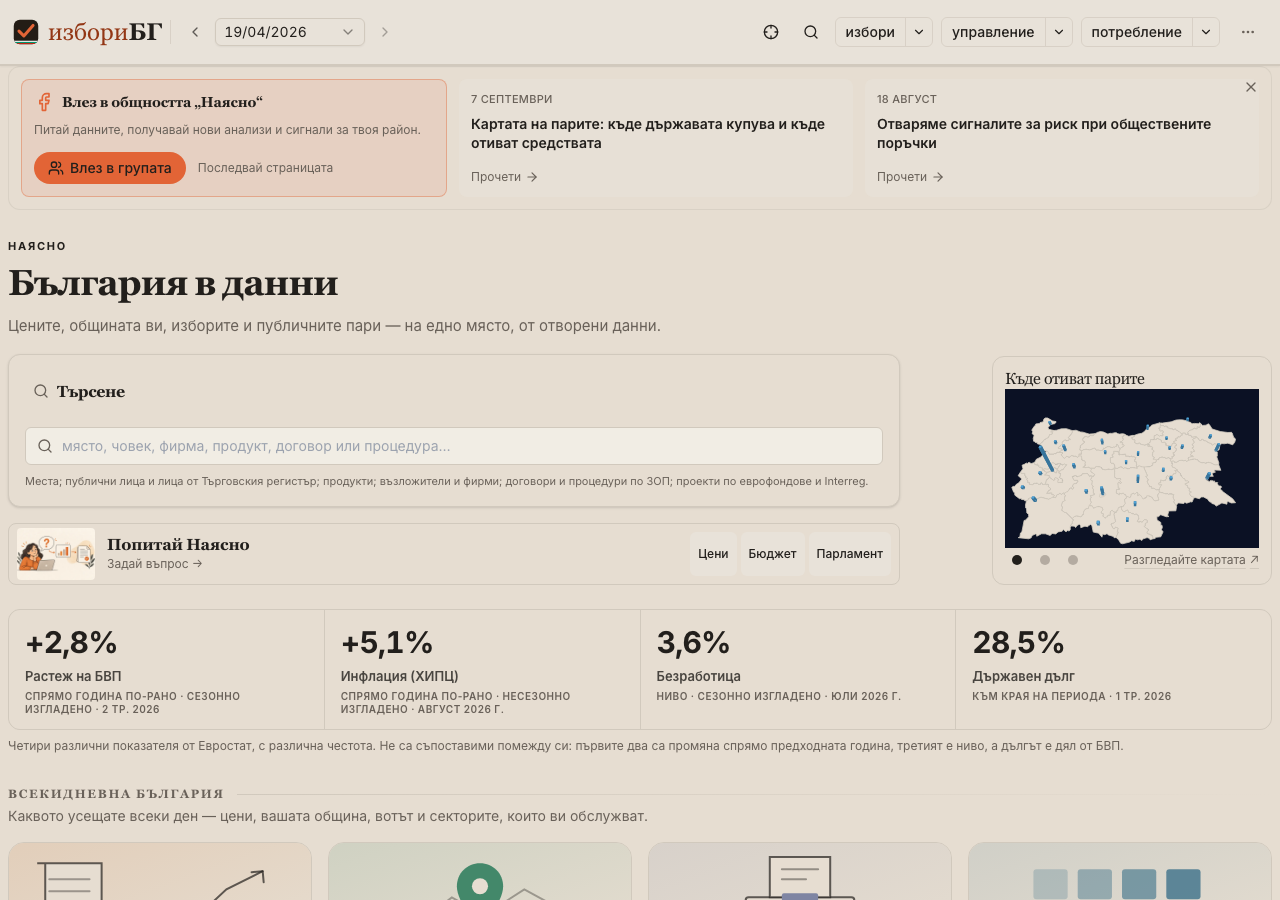
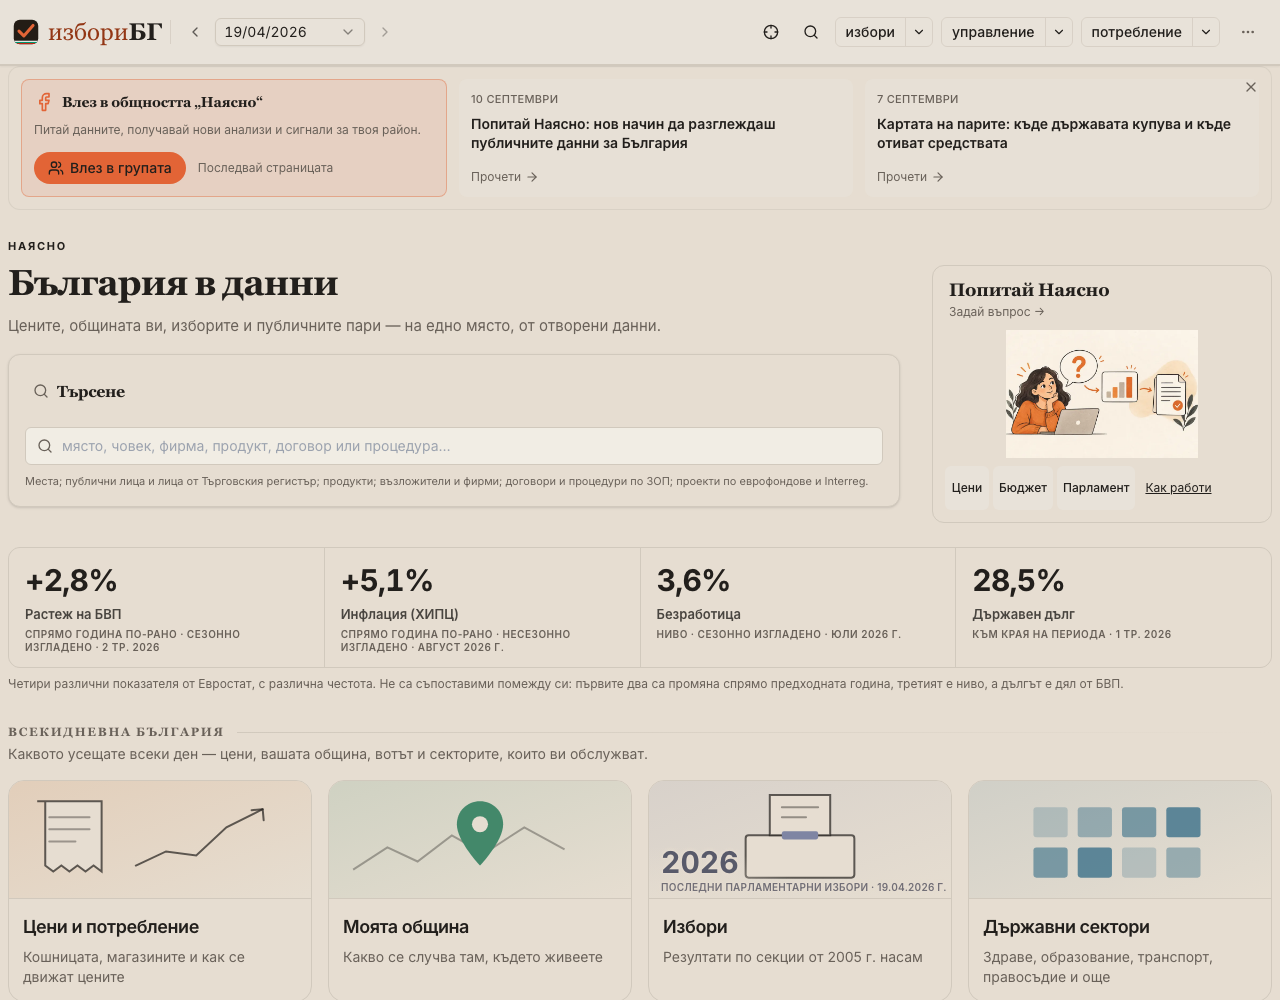
fix(home): replace slideshow with chat invitation

diff --git a/src/screens/home/ChatInvitation.tsx b/src/screens/home/ChatInvitation.tsx
@@ -11,31 +11,31 @@ export const ChatInvitation = ({ lang }: { lang: "bg" | "en" }) => (
   <section
     aria-label={lang === "bg" ? "Попитай Наясно" : "Ask Наясно"}
     data-chat-invitation=""
-    className="mt-1 flex flex-wrap items-center gap-x-2 rounded-lg border border-border bg-card px-2 py-1 lg:flex-nowrap"
+    className="flex flex-col gap-2 rounded-xl border border-border bg-card p-3"
   >
-    <img
-      src="/images/chat/invitation.webp"
-      alt=""
-      width={78}
-      height={52}
-      decoding="async"
-      className="h-[52px] w-[78px] shrink-0 rounded object-contain"
-    />
     <Link
       to="/chat"
       onClick={() => trackEvent("chat_invitation", { entry: "primary" })}
       className="flex min-h-11 shrink-0 flex-col justify-center rounded px-1 text-foreground hover:underline focus-visible:outline focus-visible:outline-2 focus-visible:outline-ring"
     >
-      <h2 className="text-base font-semibold leading-5">
+      <h2 className="font-title text-lg font-semibold leading-6">
         {lang === "bg" ? "Попитай Наясно" : "Ask Наясно"}
       </h2>
       <span className="text-xs leading-5 text-muted-foreground">
         {lang === "bg" ? "Задай въпрос →" : "Ask a question →"}
       </span>
     </Link>
+    <img
+      src="/images/chat/invitation.webp"
+      alt=""
+      width={720}
+      height={480}
+      decoding="async"
+      className="h-32 w-full rounded object-contain"
+    />
     <nav
       aria-label={lang === "bg" ? "Готови въпроси" : "Starter questions"}
-      className="flex flex-wrap items-center gap-1 lg:ml-auto lg:flex-nowrap"
+      className="flex flex-wrap items-center gap-1"
     >
       {CHAT_LAUNCH_STARTERS.map((starter) => (
         <Link
@@ -48,7 +48,7 @@ export const ChatInvitation = ({ lang }: { lang: "bg" | "en" }) => (
               starter: starter.id,
             })
           }
-          className="inline-flex min-h-11 min-w-11 items-center justify-center rounded-md bg-muted px-2 text-xs font-medium text-foreground hover:underline focus-visible:outline focus-visible:outline-2 focus-visible:outline-ring"
+          className="inline-flex min-h-11 min-w-11 items-center justify-center rounded-md bg-muted px-1.5 text-xs font-medium text-foreground hover:underline focus-visible:outline focus-visible:outline-2 focus-visible:outline-ring"
         >
           {starter.label[lang]}
         </Link>
@@ -57,7 +57,7 @@ export const ChatInvitation = ({ lang }: { lang: "bg" | "en" }) => (
         <Link
           to={`/articles/${CHAT_LAUNCH_SLUG}`}
           onClick={() => trackEvent("chat_invitation", { entry: "article" })}
-          className="inline-flex min-h-11 items-center rounded px-2 text-xs text-foreground underline focus-visible:outline focus-visible:outline-2 focus-visible:outline-ring"
+          className="inline-flex min-h-11 items-center rounded px-1.5 text-xs text-foreground underline focus-visible:outline focus-visible:outline-2 focus-visible:outline-ring"
         >
           {lang === "bg" ? "Как работи" : "How it works"}
         </Link>

diff --git a/tests/perf.spec.ts b/tests/perf.spec.ts
@@ -7,6 +7,13 @@ import { LOCALE_BUNDLES } from "../src/locales/bundles";
 // Note: `path` is deliberately NOT imported — the CLS loops below bind `path`
 // as a per-route variable and would shadow it.
 const DIST_DIR = fileURLToPath(new URL("../dist", import.meta.url));
+// The launch card replaces the flyover only in preview/published builds.
+const homePreviewSelector = () =>
+  fs
+    .readFileSync(`${DIST_DIR}/index.html`, "utf8")
+    .includes("/images/chat/invitation.webp")
+    ? "[data-chat-invitation]"
+    : "[data-flyover-band]";
 
 // Static imports of a built chunk, as emitted by Rollup. Matches BOTH the
 // binding form (`from"./chunk.js"`) and the side-effect form
@@ -376,12 +383,12 @@ test.describe("performance", () => {
     // passes as „no Cloud SQL". Both readings are about the wrong site. This happened twice
     // while these gates were being written, and cost more than the gates did. Anchor on
     // something only this build serves, so a squatter reports itself.
-    expect(
-      await page.locator("[data-flyover-band]").count(),
-      "no flyover band on `/` — if this is a local run, check that 127.0.0.1:5002 is THIS " +
+    await expect(
+      page.locator(homePreviewSelector()),
+      "no expected home preview on `/` — if this is a local run, check that 127.0.0.1:5002 is THIS " +
         "repo's emulator and not another project's (playwright.config.ts reuses whatever " +
         "is already listening)",
-    ).toBe(1);
+    ).toHaveCount(1);
     // ⚠ Sorted on a COPY. `sort()` mutates, and the arguments of `expect` are
     // evaluated left to right — sorting in place would make the failure message
     // report alphabetical order on a test whose diagnostic value is arrival
@@ -431,6 +438,16 @@ test.describe("performance", () => {
     // the same picture every run. It does not affect the request: one artifact
     // serves all three programmes.
     await page.goto("/?scene=arcs", { waitUntil: "networkidle" });
+    if (homePreviewSelector() === "[data-chat-invitation]") {
+      await expect(page.locator("[data-chat-invitation]")).toBeVisible();
+      await expect(page.locator("[data-flyover-band]")).toHaveCount(0);
+      expect(
+        urls.filter((u) => /HomeFlyover-|\/home\/flyover\.json/.test(u)),
+      ).toEqual([]);
+      expect(urls.filter((u) => u.includes("/api/db/"))).toEqual([]);
+      return;
+    }
+
     await page.locator("[data-flyover-band]").scrollIntoViewIfNeeded();
     const flyoverRequests = () =>
       urls.filter((u) => u.includes("/home/flyover.json"));
@@ -466,7 +483,7 @@ test.describe("performance", () => {
       const urls: string[] = [];
       page.on("request", (r) => urls.push(r.url()));
       await page.goto("/", { waitUntil: "networkidle" });
-      await page.locator("[data-flyover-band]").scrollIntoViewIfNeeded();
+      await page.locator(homePreviewSelector()).scrollIntoViewIfNeeded();
       await page.waitForTimeout(3_000);
       expect(
         urls.filter((u) => u.includes("/home/flyover.json")),

diff --git a/scripts/prerender/routes.ts b/scripts/prerender/routes.ts
@@ -1,3 +1,4 @@
+import chatPublication from "../../src/lib/chatLaunchPublication.json";
 // Routes for which we emit a per-route static HTML file with route-specific
 // <title> and OG/Twitter meta tags. The Vite SPA build only produces a single
 // index.html, but social-preview crawlers (Twitter, Telegram, Facebook,
@@ -674,10 +675,26 @@ export const flyoverParagraph = (lang: "bg" | "en"): string => {
   );
 };
 
+export const homePreviewParagraph = (
+  lang: "bg" | "en",
+  chatEnabled = chatPublication.published ||
+    process.env.VITE_CHAT_LAUNCH_PREVIEW === "true",
+): string => {
+  if (!chatEnabled) return flyoverParagraph(lang);
+  const prefix = lang === "en" ? "/en" : "";
+  const title = lang === "bg" ? "Попитай Наясно" : "Ask Наясно";
+  return (
+    `<section><h2><a href="${SITE_URL}${prefix}/chat">${title}</a></h2>` +
+    `<img src="${SITE_URL}/images/chat/invitation.webp" alt="" width="720" height="480" decoding="async">` +
+    `<p><a href="${SITE_URL}${prefix}/chat">${lang === "bg" ? "Задай въпрос" : "Ask a question"}</a> · ` +
+    `<a href="${SITE_URL}${prefix}/articles/${chatPublication.slug}">${lang === "bg" ? "Как работи" : "How it works"}</a></p></section>`
+  );
+};
+
 const GLOBAL_HOME_BODY_BG = `
 <h1>България в данни</h1>
 <p>Какво се случва в България, измерено с отворени данни: инфлация, безработица, растеж на БВП и държавен дълг по данни на Евростат, цени по магазини, държавният бюджет и изпълнението му, обществените поръчки, еврофондовете, изборите от 2005 г. насам и профил на всяка община.</p>
-${flyoverParagraph("bg")}
+${homePreviewParagraph("bg")}
 <h2>Основни раздели</h2>
 ${homeDestinationList("bg")}
 <h2>Как се четат числата</h2>
@@ -686,7 +703,7 @@ ${homeDestinationList("bg")}
 const GLOBAL_HOME_BODY_EN = `
 <h1>Bulgaria in data</h1>
 <p>What is happening in Bulgaria, measured from open data: inflation, unemployment, GDP growth and government debt from Eurostat, shop prices, the state budget and its execution, public procurement, EU funds, every election since 2005, and a profile of each municipality.</p>
-${flyoverParagraph("en")}
+${homePreviewParagraph("en")}
 <h2>Main sections</h2>
 ${homeDestinationList("en")}
 <h2>How to read the numbers</h2>

diff --git a/src/screens/HomeDashboardScreen.tsx b/src/screens/HomeDashboardScreen.tsx
@@ -159,12 +159,15 @@ export const HomeDashboardScreen: FC = () => {
                 en: "Places; public figures and people in company records; products; buyers and companies; procurement contracts and procedures; EU and Interreg projects.",
               }}
             />
-            {CHAT_LAUNCH_REVIEWABLE && (
-              <ChatInvitation lang={bg ? "bg" : "en"} />
-            )}
           </>
         }
-        searchPreview={<HomeFlyoverSlot />}
+        searchPreview={
+          CHAT_LAUNCH_REVIEWABLE ? (
+            <ChatInvitation lang={bg ? "bg" : "en"} />
+          ) : (
+            <HomeFlyoverSlot />
+          )
+        }
         kpis={kpis}
         // Reserve the band's REAL height while the artifact is in flight. Without it the
         // slot is 0 cells and then jumps to four — a layout shift on the site's most-visited

diff --git a/scripts/prerender/homePreviewParagraph.test.ts b/scripts/prerender/homePreviewParagraph.test.ts
@@ -1,0 +1,20 @@
+import { expect, it } from "vitest";
+import { homePreviewParagraph } from "./routes";
+
+it.each(["bg", "en"] as const)(
+  "replaces the slideshow with localized chat artwork and links (%s)",
+  (lang) => {
+    const html = homePreviewParagraph(lang, true);
+    const prefix = lang === "en" ? "/en" : "";
+    expect(html).toContain(`https://electionsbg.com${prefix}/chat`);
+    expect(html).toContain(
+      `https://electionsbg.com${prefix}/articles/2026-09-10-popitai-naiasno`,
+    );
+    expect(html).toContain("/images/chat/invitation.webp");
+    expect(html).not.toContain("/flyover/");
+    expect(homePreviewParagraph(lang, false)).toContain(
+      "/flyover/columns.webp",
+    );
+    expect(homePreviewParagraph(lang, false)).not.toContain("/chat");
+  },
+);

diff --git a/docs/plans/chat-launch-evidence.md b/docs/plans/chat-launch-evidence.md
@@ -151,3 +151,9 @@ Standalone typecheck/build and strict output packaging pass after resolving a ma
 User review requested removal of the integrated chat logo, theme/language controls and other standalone toolbar items. Chat, tools and evaluation now share one sticky 48px local toolbar containing only New chat, Tools and Accuracy. Site preferences supply language/theme; all integrated standalone headers/footers are suppressed. Conversation sharing/export and memory remain in the conversation area. New chat clears the saved conversation and linked question while retaining explicit area context; toolbar view changes preserve area without copying old question/tool arguments.
 
 Browser checks confirm BG/EN labels and navigation across all three screens at 1280px/320px, no horizontal overflow, and a sticky evaluation toolbar. Changing language and dark theme through the site's own menu updates all three screens without duplicate controls. Eight article figures were recaptured from the actual revised UI with live hosted public data; narration and envelopes exactly match the prior evidence. Source review found area preservation and a residual evaluation footer; both were verified and repaired with regression coverage. A linked-question reset regression also exposed a router-transition race: New chat now unmounts the old conversation and waits for its question-free target URL before remounting, preventing accidental re-asking. Six desktop/mobile browser cases pass locally and on the refreshed hosted preview. The hosted site-menu language/theme check passes across all three screens after allowing the language-menu transition to settle. Six focused toolbar/renderer cases, four packaging cases, AI typecheck, scoped lint and five final homepage/entry performance checks pass. The complete preview build/postbuild and image-reference gate pass; BG/EN desktop/mobile article checks confirm all four figures, six prompt links and no overflow. Source/repair review has zero outstanding findings. The revised preview is deployed; production publication remains gated.
+
+## Editorial revision: homepage chat card
+
+The illustrated Попитай Наясно card replaces the slideshow beside search in the reviewable launch, with three starter links and How it works. The duplicate strip beneath search is removed. Unpublished production retains its existing slideshow; static home HTML follows the same publication/preview gate. BG/EN checks at 1280px, 390px and 320px find one invitation, no slideshow, no horizontal overflow and links at least 44 × 44px. The desktop header measures 454.625px against its unchanged 520px budget. Updated light desktop and dark mobile screenshots retain actual UI pixels. Seven focused prerender cases and scoped lint pass.
+
+The complete preview build/postbuild passed. All nine selected HTML, entry, request-budget and slideshow-loading checks pass; the first-paint test now retries its exact-one locator assertion to wait for the lazy route mount. Source and repair review found no actionable issues. The refreshed hosted preview passes all six BG/EN desktop/390px/320px cases with one card, no slideshow and no overflow. Production publication remains gated.

diff --git a/docs/plans/chat-migration-and-launch-v1.md b/docs/plans/chat-migration-and-launch-v1.md
@@ -5,7 +5,7 @@ Date: 2026-09-10.
 
 ## 1. Outcome and agreed direction
 
-Launch the existing chat as an integrated part of electionsbg.com shortly before the move to naiasno.bg. Migrate all three public AI screens, introduce a prominent homepage invitation below search, and publish an illustrated Bulgarian launch article with an English counterpart. The primary audience is ordinary citizens; include a few deeper examples for journalists and researchers. Name comparable tools, including СИГМА's documented AI assistant, with dated evidence and a clear distinction between announced and tested capabilities.
+Launch the existing chat as an integrated part of electionsbg.com shortly before the move to naiasno.bg. Migrate all three public AI screens, replace the homepage slideshow beside search with a prominent chat invitation, and publish an illustrated Bulgarian launch article with an English counterpart. The primary audience is ordinary citizens; include a few deeper examples for journalists and researchers. Name comparable tools, including СИГМА's documented AI assistant, with dated evidence and a clear distinction between announced and tested capabilities.
 
 The launch destination is `/chat`, later retained unchanged on naiasno.bg. Brand the invitation **Попитай Наясно**. Keep the existing data tools and chat behavior; this is an integration and communication project, not a model replacement or a rewrite of the data layer.
 
@@ -92,7 +92,7 @@ Gate: both real AI and non-AI questions return on staging, with sources and mode
 
 ## 7. Tier 3 — homepage promotion and artwork
 
-Place a compact promotional card directly below the search bar/hint, coordinated with the existing flyover preview. It must not obscure search results or displace essential navigation below an oversized hero.
+Replace the slideshow beside the search bar with an illustrated Попитай Наясно card; on mobile it follows search. Remove the duplicate invitation strip beneath search. Keep the existing slideshow only in unpublished production builds until launch approval. It must not obscure search results or displace essential navigation below an oversized hero.
 
 Proposed copy:
 

diff --git a/docs/plans/chat-launch-assets/README.md b/docs/plans/chat-launch-assets/README.md
@@ -10,9 +10,14 @@ Prompt:
 
 > Use case: ads-marketing. Create a polished editorial illustration for a Bulgarian civic public-data website Наясно, a compact homepage chat invitation. Wide 3:2 composition. Warm cream paper backdrop, charcoal fine ink outlines, restrained burnt-orange accents, subtle paper texture. One speech bubble with a simple question mark connects to a tidy abstract bar-chart card and then an official paper/source document with a small check symbol. Friendly, clear, intelligent, contemporary editorial illustration; ample breathing room, no robot, no brain, no glowing AI effects. No written words, no logos, no numbers or purported real data. The decorative chart is symbolic, not a factual visualization. All three elements form one balanced compact composition readable at 240px wide. No border or drop shadow.
 
-The homepage invitation is visible in development for review. Production is
-gated by `CHAT_LAUNCH_PUBLISHED` in `src/lib/chatLaunch.ts`; enable it together
-with the reviewed article. Its secondary article link is absent until then.
+The homepage invitation replaces the slideshow beside search in development and
+isolated preview builds, with no duplicate strip. Normal production retains the
+slideshow until `src/lib/chatLaunchPublication.json` is published together with
+the reviewed article. The preview includes the article link for editorial review.
+
+`homepage-bg.png` and `homepage-en-dark-mobile.png` were refreshed on 2026-09-10
+from the actual localhost UI at 1280px light and 390px dark respectively. They
+show the replacement card, not article evidence for the displayed live metrics.
 
 ## Article example evidence (T4)
 
